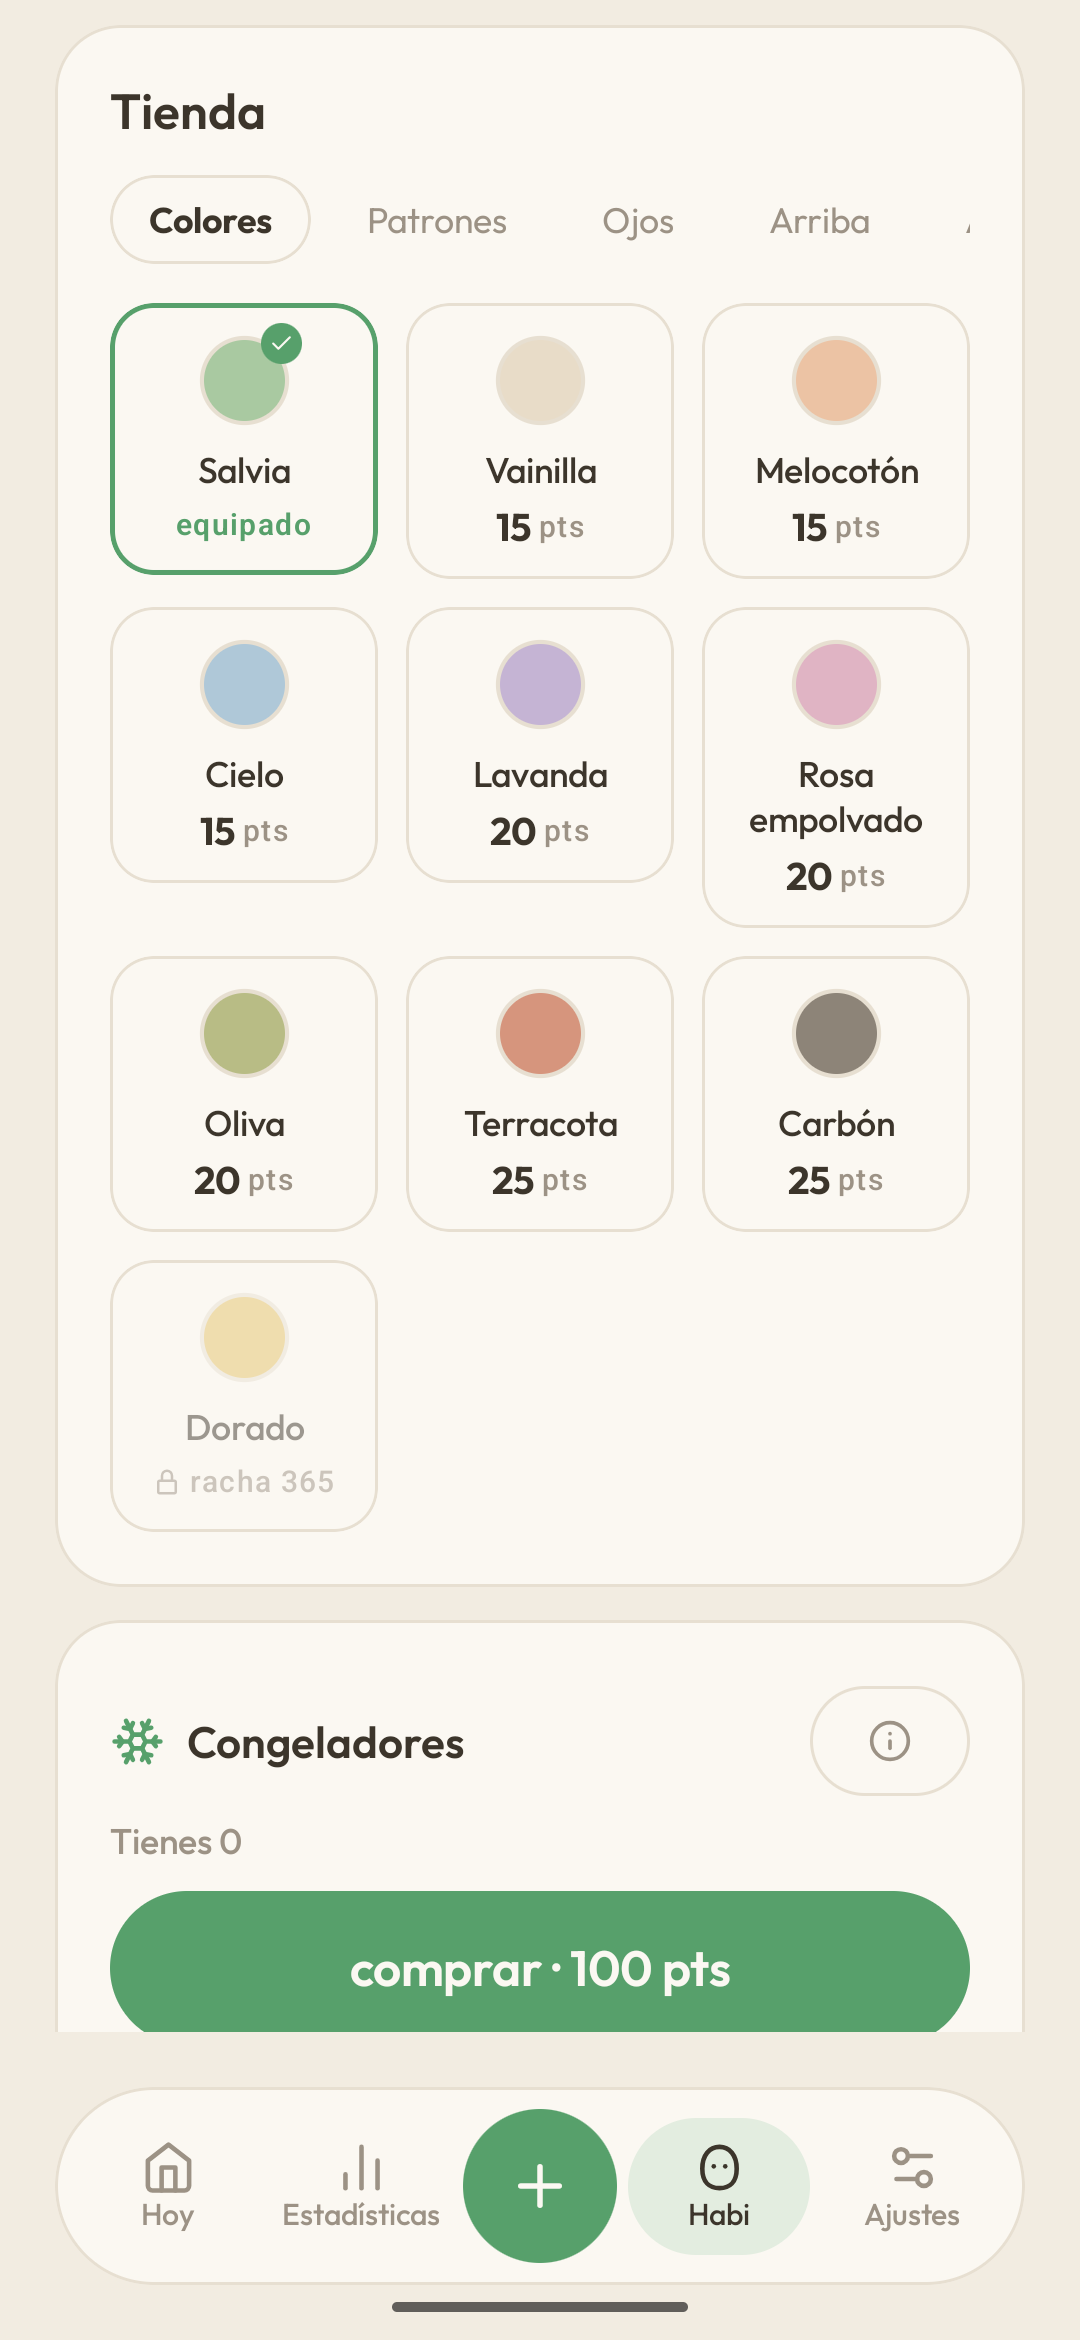
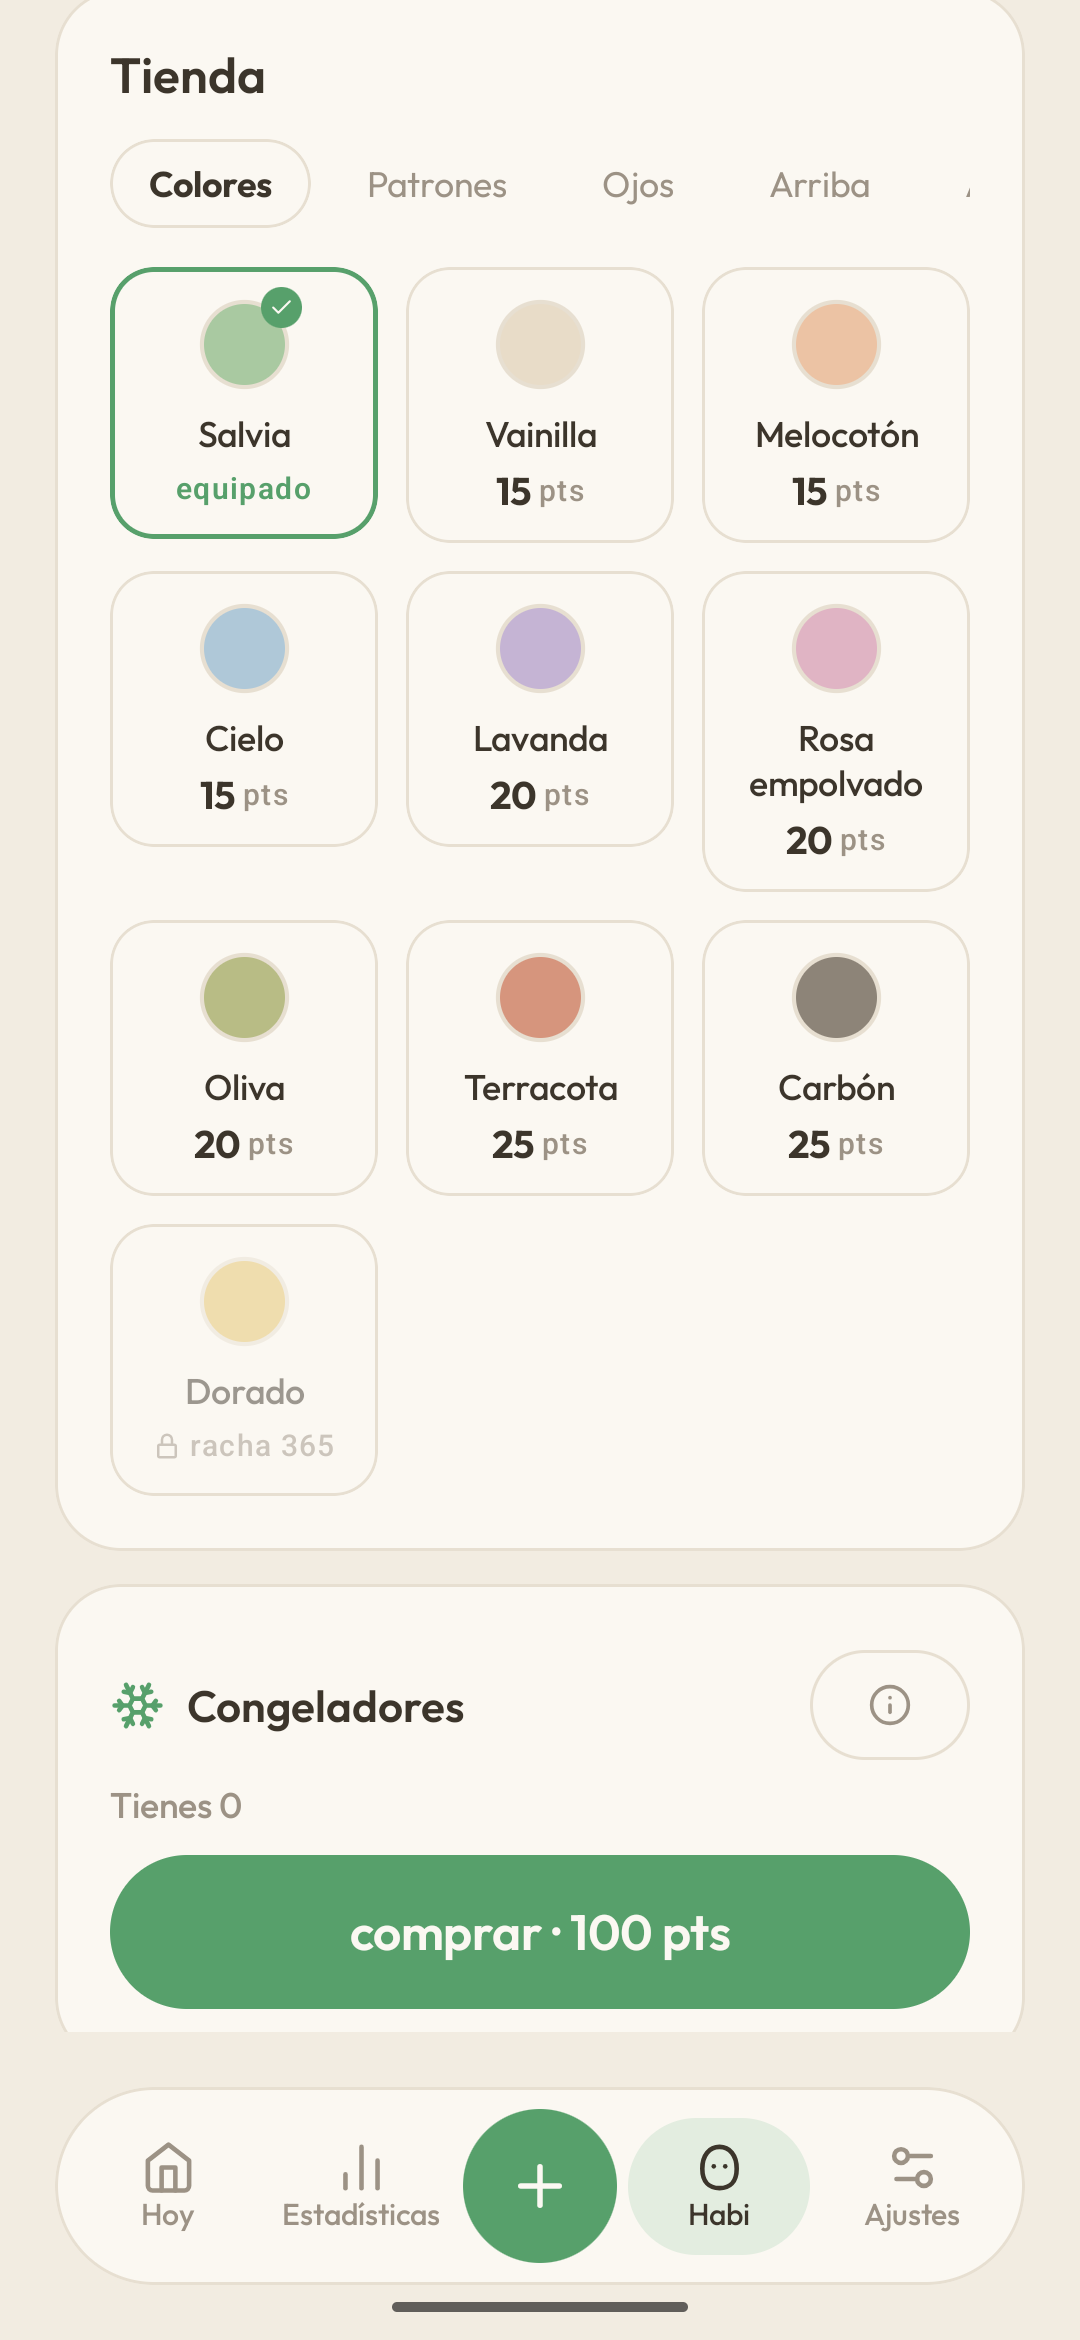
fix(video): boton de comprar entero en la tienda en espanol y comprobacion de su margen
En es la subida final es de 108 px en coordenadas absolutas. run_shots.py falla el intento si bajo el boton no se ven 20 px de su tarjeta. El README corrige la duracion (unos 11 minutos) y documenta los desplazamientos fijos de logros y tienda.

Claude-Session: https://claude.ai/code/session_01La2bxxwQG8rKRZhctLggti

diff --git a/video/shots/run_shots.py b/video/shots/run_shots.py
@@ -46,6 +46,12 @@ HABI_EYES = (440, 400, 640, 475)
 HABI_EYES_MIN_DARK = 300
 BLINK_RETRIES = 5
 SNOOZE_MS = 600000
+# Boton de comprar de la tienda: en la columna x=300 es la ultima franja verde alta (>=100 px);
+# debajo tiene que verse el margen de su tarjeta (>=20 px), si no el boton sale cortado.
+BUY_COLUMN_X = 300
+BUY_MIN_HEIGHT = 100
+BUY_MIN_MARGIN = 20
+CARD = (0xFB, 0xF8, 0xF2)
 
 
 def labels_for(lang: str) -> dict[str, str]:
@@ -120,6 +126,33 @@ def screencap_for(screen: str, top: int) -> bytes | None:
     return png if habi_eyes_open(png, top) else None
 
 
+def is_green(px: tuple[int, int, int]) -> bool:
+    r, g, b = px
+    return g - r > 40 and g - b > 30
+
+
+def buy_button_whole(path: Path) -> bool:
+    with Image.open(path) as img:
+        rgb = img.convert("RGB")
+        column = [rgb.getpixel((BUY_COLUMN_X, y)) for y in range(rgb.height)]
+    runs: list[tuple[int, int]] = []
+    start = None
+    for y, px in enumerate(column + [(0, 0, 0)]):
+        if is_green(px) and start is None:
+            start = y
+        elif not is_green(px) and start is not None:
+            runs.append((start, y))
+            start = None
+    tall = [run for run in runs if run[1] - run[0] >= BUY_MIN_HEIGHT]
+    if not tall:
+        return False
+    end = tall[-1][1]
+    margin = column[end:end + BUY_MIN_MARGIN]
+    return len(margin) == BUY_MIN_MARGIN and all(
+        all(abs(c - k) <= 6 for c, k in zip(px, CARD)) for px in margin
+    )
+
+
 def after(screen: str) -> None:
     d.shell("cmd statusbar collapse", check=False)
     if screen == "notificacion":
@@ -140,10 +173,13 @@ def capture(screen: str, lang: str, labels: dict[str, str], top: int, bottom: in
                 crop.crop_raw(raw, out, 0, top + bottom)
             else:
                 crop.crop_raw(raw, out, top, bottom)
-            if screen not in PAPEL_SCREENS or crop.top_row_is_papel(out):
+            if screen == "tienda" and not buy_button_whole(out):
+                print(f"run_shots: {lang}/{screen} intento {attempt}: el boton de comprar sale cortado", file=sys.stderr)
+            elif screen not in PAPEL_SCREENS or crop.top_row_is_papel(out):
                 after(screen)
                 return "ok"
-            print(f"run_shots: {lang}/{screen} intento {attempt}: la fila superior no es Papel", file=sys.stderr)
+            else:
+                print(f"run_shots: {lang}/{screen} intento {attempt}: la fila superior no es Papel", file=sys.stderr)
         else:
             print(f"run_shots: {lang}/{screen} intento {attempt} fallido", file=sys.stderr)
     after(screen)

diff --git a/video/shots/README.md b/video/shots/README.md
@@ -23,7 +23,7 @@ python3 to_web.py           # copia a alvarotc-web lo que pide su brief de medio
 ```
 
 Una sola pantalla: `python3 run_shots.py --lang es --screens stats`, y después
-`python3 verify_shots.py`. La pasada completa tarda unos 20 minutos; `notificacion` espera a que
+`python3 verify_shots.py`. La pasada completa tarda unos 11 minutos (678 s medidos); `notificacion` espera a que
 salte un recordatorio real (hasta 4 minutos por idioma).
 
 `verify_shots.py` comprueba que existen las 26, que miden 1080×2340 RGB, que la fila superior es
@@ -79,6 +79,19 @@ pulsación larga en `80%,62%` de la pantalla de inicio para abrir el menú (Widg
 selector de widgets el botón de añadir en `50%,84%` (se repite una vez si no aparece la pantalla
 de configuración). Si cambia la imagen del sistema o la resolución del AVD, hay que revisar esos
 dos puntos con `maestro --device emulator-5554 hierarchy` y una captura cruda de `raw/`.
+
+Otros desplazamientos fijos, calibrados en este AVD (1080×2406, densidad 440):
+
+- `flows/logros.yaml`: un swipe lento de `50%,80%` a `50%,50%` (1500 ms). Deja arriba «Rachas»
+  y enteras las tarjetas de Rachas y Constancia, con «Semana redonda» a la vista. Uno más corto
+  cortaba por arriba la tarjeta «9 de 14» y fallaba la comprobación de Papel.
+- `flows/tienda.yaml`: cuatro swipes rápidos hasta el final de la pantalla de Habi, que siempre
+  dejan la misma posición, y uno lento hacia arriba. En en va de `50%,50%` a `50%,54%` (unos 75 px
+  de desplazamiento). En es va de `540,1203` a `540,1311` (unos 87 px), porque su rejilla es unos
+  47 px más alta: «Rosa empolvado» ocupa dos líneas. En es, el título y las pestañas quedan
+  enteros y el borde de arriba de la tarjeta queda justo fuera. `run_shots.py`
+  (`buy_button_whole`) comprueba en la columna x=300 que debajo del botón de comprar se ven al
+  menos 20 px de su tarjeta; si no, el intento falla.
 
 Fallback con fotos del autor:
 
